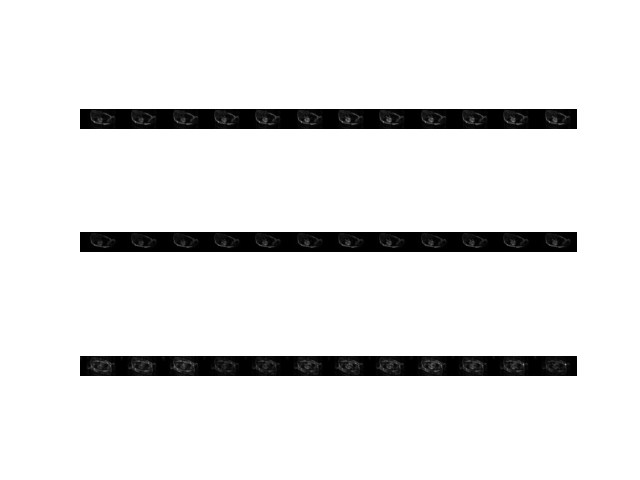
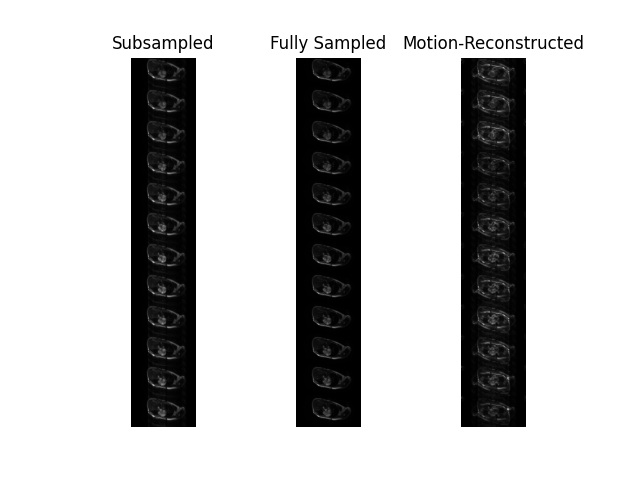
Reordered plot of reconstructed images.

Changed region(s): [[0.125, 0.0625, 0.9062, 0.9062]]

diff --git a/2D_CMR_Registration/CMRxReconReconstructionPipeline.py b/2D_CMR_Registration/CMRxReconReconstructionPipeline.py
@@ -171,20 +171,20 @@ for data in data_generator:
       
     # plot the reconstructed motion-compensated frames
     for frame in range(num_frames):
-        plt.subplot(3, num_frames, frame+1)
+        plt.subplot(num_frames, 3, 3*frame+1)
         plt.imshow(images_subsampled[:,:,0,frame], cmap='gray')
-        #if frame == 0:
-        #   plt.title('Subsampled') # Frames
+        if frame == 0:
+            plt.title('Subsampled') # Frames
         plt.axis('off')
-        plt.subplot(3, num_frames, num_frames+frame+1)
+        plt.subplot(num_frames, 3, 3*frame+2)
         plt.imshow(images_fullysampled[:,:,frame], cmap='gray')
-        #if frame == 0:
-        #    plt.title('Fully Sampled') # Frames
+        if frame == 0:
+            plt.title('Fully Sampled') # Frames
         plt.axis('off')
-        plt.subplot(3, num_frames, 2*num_frames+frame+1)
+        plt.subplot(num_frames, 3, 3*frame+3)
         plt.imshow(img_recon_motion[:,:,frame], cmap='gray')
-        #if frame == 0:
-        #    plt.title('Motion-Reconstructed') # Frames
+        if frame == 0:
+            plt.title('Motion-Reconstructed') # Frames
         plt.axis('off')
     #plt.tight_layout()
     plt.subplots_adjust(wspace=0.00005,hspace=0.00005) 
